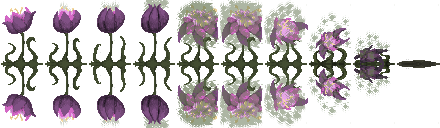
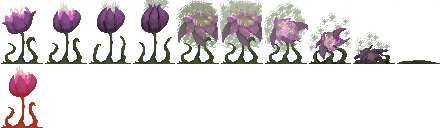
Added Damaged Frames For Enemies and Death Animation

Changed region(s): [[0.0, 0.5, 1.0, 1.0]]

diff --git a/SuperNova/src/classes/Player.cpp b/SuperNova/src/classes/Player.cpp
@@ -3,7 +3,7 @@
 #include <iostream>
 
 float playerJumpSpeed, playerSpeed, playerSize, animationPerFrame = 1.0f / 8.0f, jumpHeight = 0;
-int offset = 0, offsetJetPack = 0, offsetDrill = 0;
+int offset = 0, offsetJetPack = 0, offsetDrill = 0, offsetDeath;
 float gravity = 1.f;
 sf::Vector2f velocity(0, 0);
 bool grounded = true, jumping = false, ceilingBump = false, crouchPlayed = false;
@@ -78,6 +78,7 @@ void Player::animate() {
 	if (walkTimer.getElapsedTime().asMilliseconds() >= 150 * offset) offset++;
 	if (jetTimer.getElapsedTime().asMilliseconds() >= 150 * offsetJetPack) offsetJetPack++;
 	if (drillTimer.getElapsedTime().asMilliseconds() >= 150 * offsetDrill) offsetDrill++;
+	if (deathTimer.getElapsedTime().asMilliseconds() >= 150 * offsetDeath) offsetDeath++;
 
 
 	//There are 8 frames for walking now, this allows each frame to cycle and then reset when the last frame is projected onto the screen
@@ -94,6 +95,10 @@ void Player::animate() {
 	if (offsetDrill == 7 || !drilling) {
 		drillTimer.restart();
 		offsetDrill = 0;
+	}
+
+	if (offsetDeath == 4) {
+		offsetDeath = 0;
 	}
 }
 
@@ -278,9 +283,10 @@ void Player::draw(sf::RenderWindow& window) {
 }
 
 void Player::die() {
-	dead = true;
+	if (stoppedRight) playerSprite.setTextureRect(sf::IntRect(offsetDeath * 64, 513, 64, 64));
+	if (stoppedLeft) playerSprite.setTextureRect(sf::IntRect(offsetDeath * 64, 577, 64, 64));
 
-	// Animate death here
+	dead = true;
 }
 
 void Player::respawn() {

diff --git a/SuperNova/src/headers/Player.h b/SuperNova/src/headers/Player.h
@@ -12,7 +12,7 @@ class Player
 		int tileSize = 64;
 		float hp = 1.f;
 		int jetpackFuel, dashCooldown, dashDistance;
-		sf::Clock walkTimer, jetTimer, drillTimer, damageTimer;
+		sf::Clock walkTimer, jetTimer, drillTimer, damageTimer, deathTimer;
 		sf::RectangleShape rect;
 
 		sf::IntRect frameStoppedLeft = sf::IntRect(0, 32 * 2, 32, 64),
